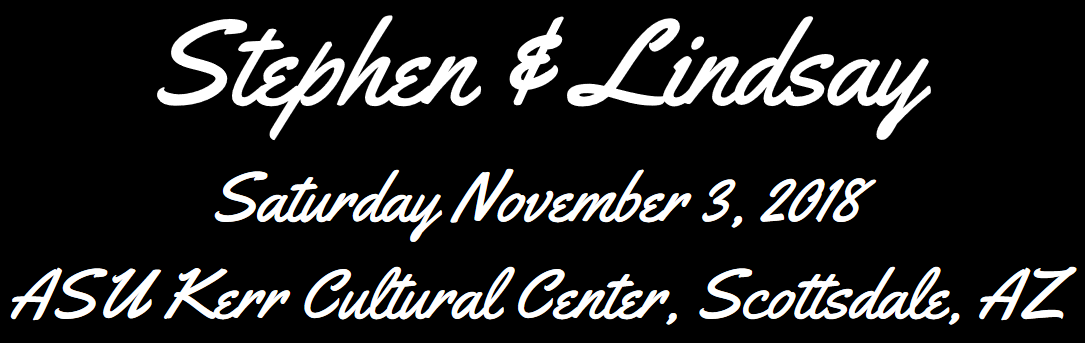
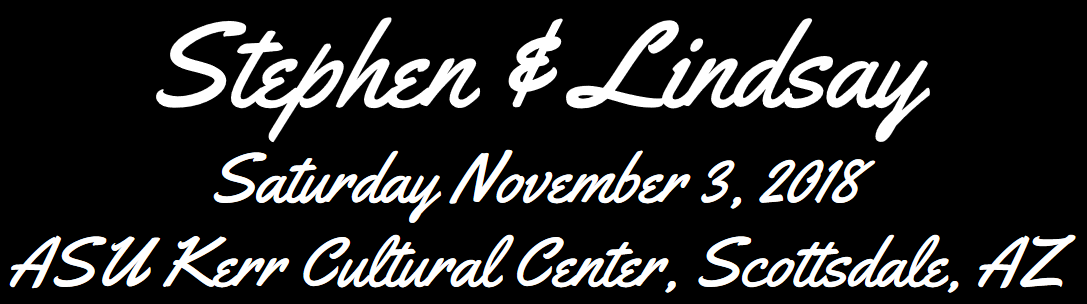
Heading text in image

diff --git a/index.html b/index.html
@@ -111,7 +111,7 @@ body, html {
 }
 
 .bgimg-1 {
-	background-image: url("engagement9.jpg");
+	background-image: url("headingphotowithtext.jpg");
 }
 
 .bgimg-2 {
@@ -290,13 +290,13 @@ body, html {
 	<!-- Top Frame -->
 	<header class="w3-display-container w3-wide bgimg bgimg-1" id="home">
 		<div class="w3-display-middle w3-text-white w3-center w3-responsive">
-			<!--<img class="img-responsive" src="headingtextwhite.png">-->
-			<h1 class="w3-jumbo">Lindsay & Stephen</h1>
+			<!--<img class="img-responsive" src="headingphotowithtext.jpg">-->
+			<!--<h1 class="w3-jumbo">Lindsay & Stephen</h1>
 			<h1>Saturday November 3, 2018</h1>
 			<h1>ASU Kerr Cultural Center, Scottsdale, AZ</h1>
-			</br></br></br></br></br></br></br></br>
+			</br></br></br></br></br></br></br></br>-->
 		</div>
-	</header>
+		</header>
 	
 	<!-- About Us Section -->
 	<div id="thecouple" class="container-fluid bg-1">
